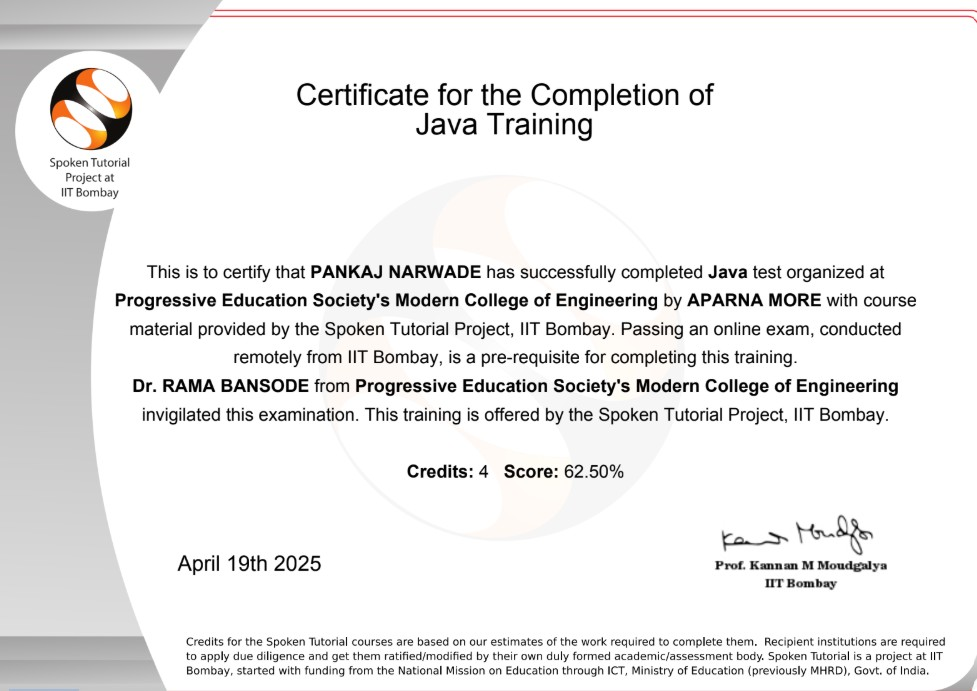
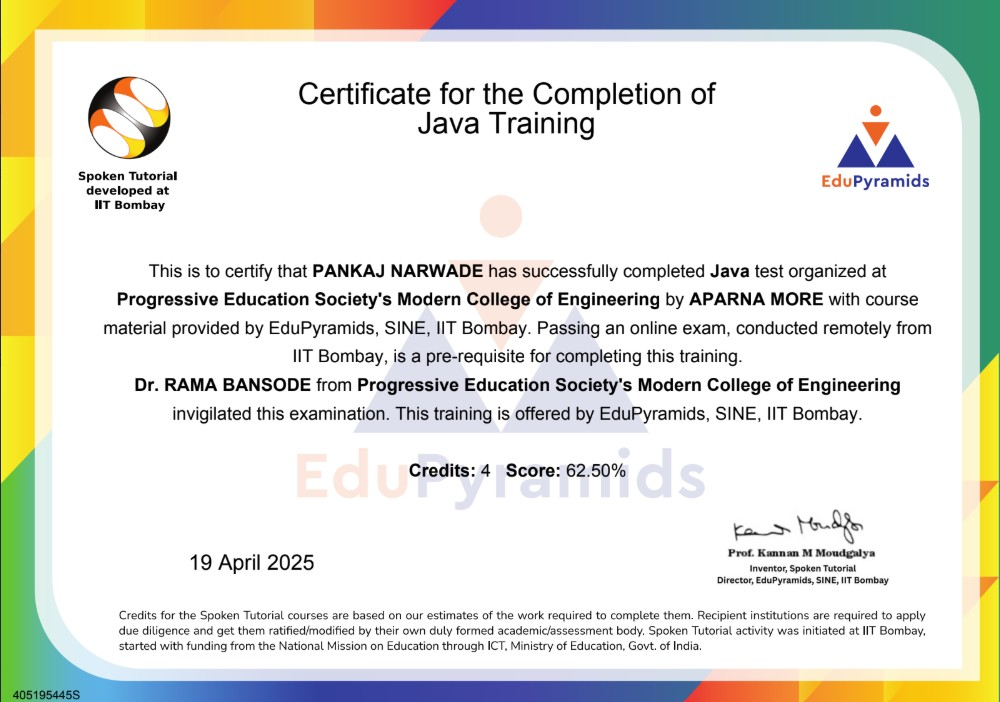
added certificate and links

diff --git a/src/util/certification.js b/src/util/certification.js
@@ -17,7 +17,7 @@ const CERTIFICATIONS = [
     title: "CPP Programming",
     issuer: "IIT Bombay",
     date: "2025",
-    verifyLink: "https://drive.google.com/file/d/1fFKMlCWV292lPkaUqtHNWzo_vSMHggc6/view?usp=sharing",
+    verifyLink: "https://drive.google.com/file/d/1waANazhgl8CedDemRvSgMz7cPLv25Q3S/view?usp=sharing",
     credentialId: "4051954TYE",
     skills: ["CPP", "OOPs Concepts", "Data Structures"],
     image: "./assets/images/cpp.jpeg", 
@@ -29,7 +29,7 @@ const CERTIFICATIONS = [
     title: "Java Training",
     issuer: "IIT Bombay",
     date: "2025",
-    verifyLink: "https://drive.google.com/file/d/1nNlomYj-ReKNcL2uHJvc69TZiffcMrBU/view?usp=sharing",
+    verifyLink: "https://drive.google.com/file/d/1e6KZhDTP1n3mRIISZ7_lEMWNW824KPLC/view?usp=sharing",
     credentialId: "405195445S",
     skills: ["JAVA", "core concepts", "OOPs Concepts"],
     image: "./assets/images/java.jpg", 
@@ -47,6 +47,18 @@ const CERTIFICATIONS = [
     image: "./assets/images/python.jpg",
     status: "Verified",
     type: "certification"
+  }, 
+    {
+    id: 5,
+    title: "JavaScript Training",
+    issuer: "EduPyramid [IIT Bombay]",
+    date: "2024",
+    verifyLink: "https://drive.google.com/file/d/18469n9IqudJ9__q_DcMDfYKkoSL71HC4/view?usp=sharing",
+    credentialId: "4051954SSX",
+    skills: ["JavaScript", "Web Development", "Frontend"],
+    image: "./assets/images/javascript.jpg",
+    status: "Verified",
+    type: "professional"
   }, 
 ];
 

diff --git a/src/components/Certifications/Certifications.jsx b/src/components/Certifications/Certifications.jsx
@@ -8,17 +8,19 @@ const CertificationCard = ({ certification }) => {
   const [isHovered, setIsHovered] = useState(false);
 
   const getTypeColor = (type) => {
-    switch(type) {
-      case 'Professional': return '#4ECDC4';
-      case 'Certification': return '#FFE66D'; 
+    const lowerType = type.toLowerCase();
+    switch(lowerType) {
+      case 'professional': return '#4ECDC4';
+      case 'certification': return '#FFE66D'; 
       default: return '#4ECDC4';
     }
   };
 
   const getTypeIcon = (type) => {
-    switch(type) {
-      case 'Professional': return '🏆';
-      case 'Certification': return '📜'; 
+    const lowerType = type.toLowerCase();
+    switch(lowerType) {
+      case 'professional': return '🏆';
+      case 'certification': return '📜'; 
       default: return '📜';
     }
   };
@@ -70,7 +72,7 @@ const CertificationCard = ({ certification }) => {
               style={{ backgroundColor: 'rgba(255, 255, 255, 0.1)' }}
             >
               <span className="type-icon">{getTypeIcon(certification.type)}</span>
-              <span className="type-text">{certification.type}</span>
+              <span className="type-text">{certification.type.charAt(0).toUpperCase() + certification.type.slice(1)}</span>
             </span>
           </div>
 
